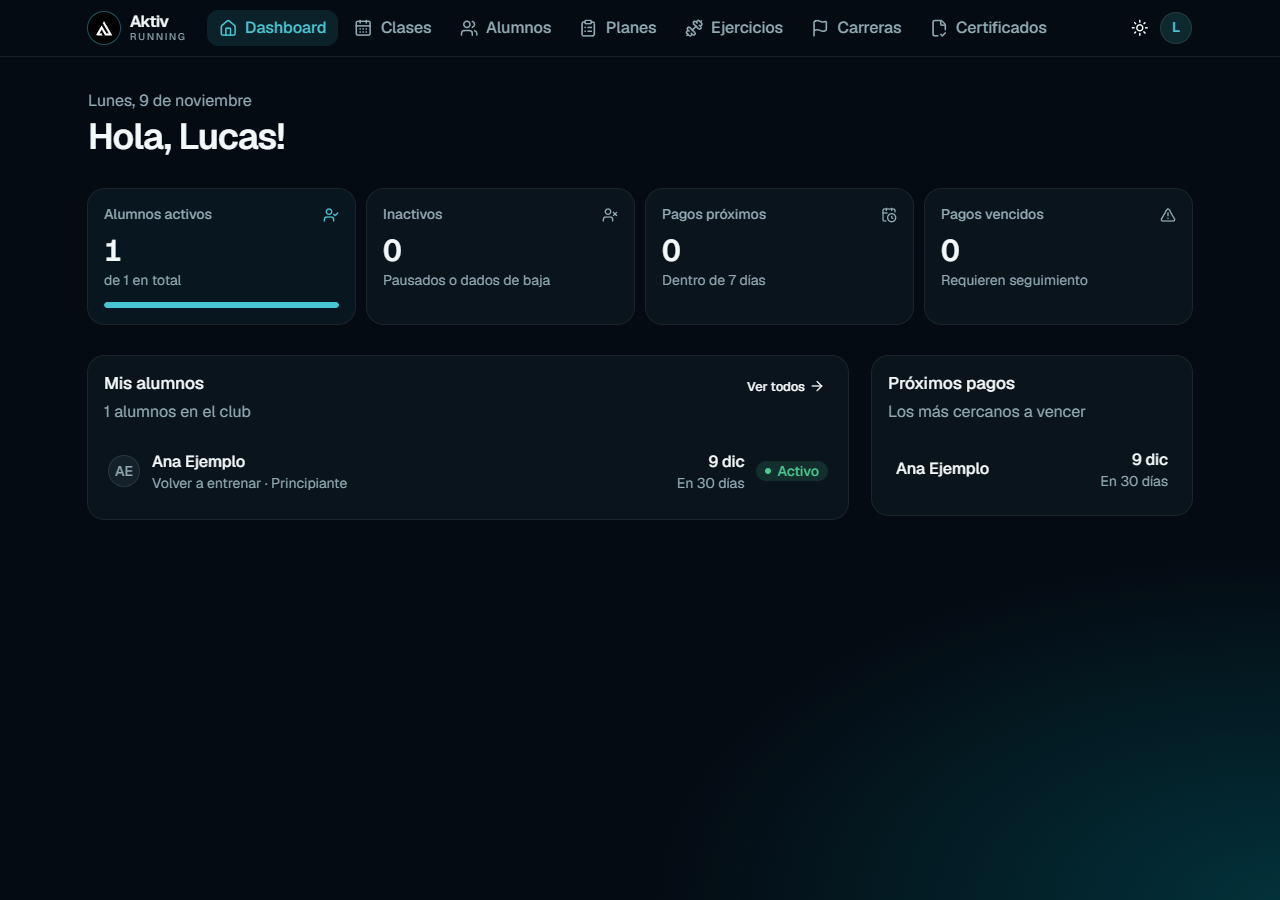
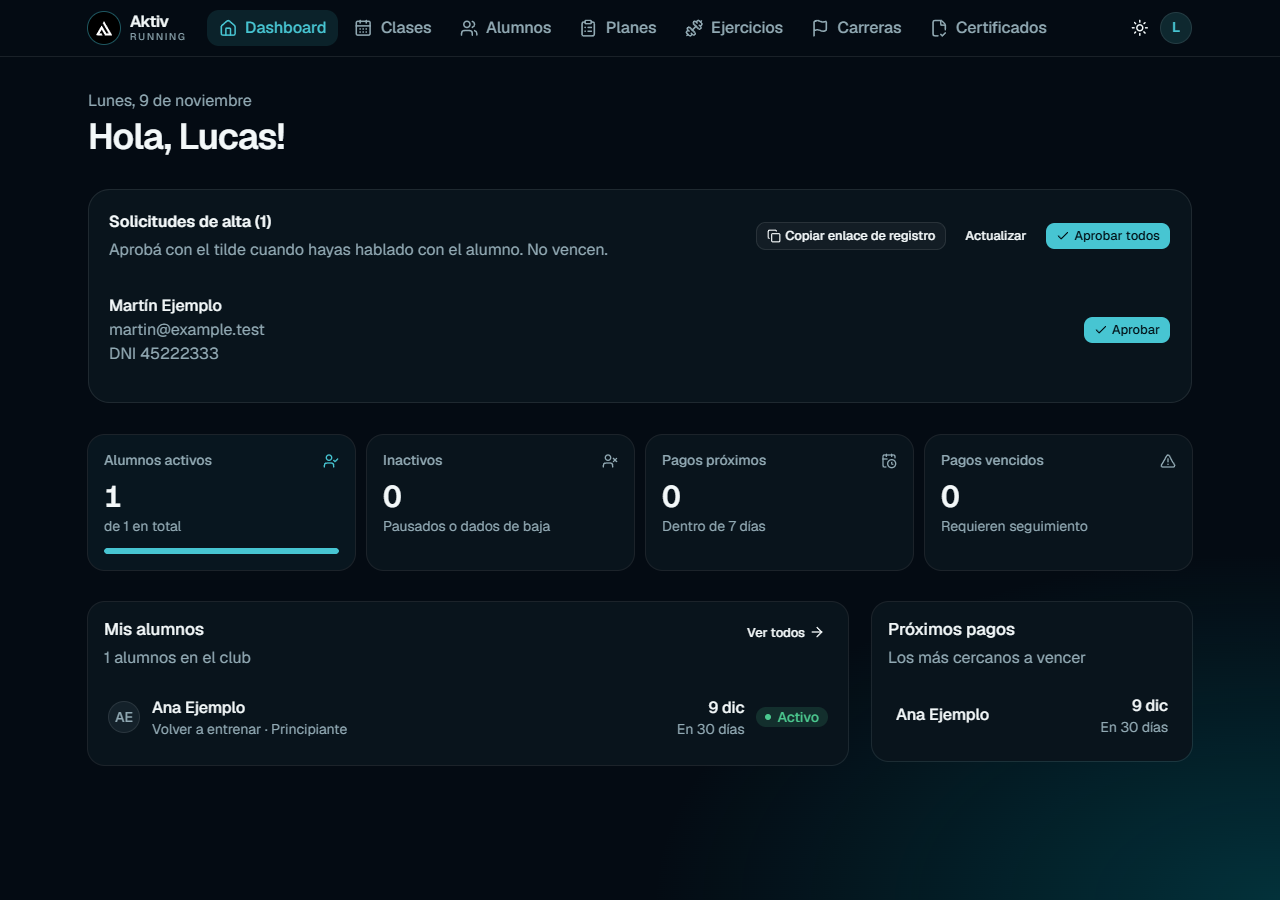
Mover solicitudes de alta al dashboard y actualizar manual

diff --git a/aktiv-client/src/lib/manual-detallado.ts b/aktiv-client/src/lib/manual-detallado.ts
@@ -20,17 +20,17 @@ export const guias: GuiaManual[] = [
   g("primeros-pasos", "Primeros pasos", "Conocer las pantallas y empezar", "Dónde encontrar cada tarea y en qué orden preparar una cuenta y sus entrenamientos.", "/dashboard", [
     p("Entrá con tu cuenta de profesor", "Abrí Aktiv, escribí tu email y contraseña y pulsá Entrar. Si la olvidaste, elegí ¿Olvidaste tu contraseña? No crees otra cuenta para recuperar la existente.", "login"),
     p("Ubicá la navegación principal", "Dashboard reúne el resumen. Clases organiza los horarios y avisos de asistencia. Alumnos abre las fichas. Planes contiene modelos reutilizables. Ejercicios es tu catálogo. Carreras organiza eventos. Certificados permite revisar la documentación médica. En el celular, abrí el menú para encontrar estos mismos apartados.", "dashboard"),
-    p("Incorporá a la persona", "Desde Alumnos podés compartir el enlace de registro y aprobar su solicitud. Si preferís cargarla vos, elegí Nuevo alumno y prepará su acceso con DNI después.", "alumnos-lista"),
+    p("Incorporá a la persona", "Desde Dashboard, debajo del saludo, podés compartir el enlace de registro y aprobar su solicitud. Si preferís cargarla vos, entrá en Alumnos y elegí Nuevo alumno y prepará su acceso con DNI después.", "alumnos-lista"),
     p("Prepará la rutina", "Creá un plan desde su ficha o armá un modelo en Planes y asignale una copia. Revisá fechas, actividades, días, ejercicios y semanas antes de activarlo.", "alumno-planes"),
     p("Volvé al manual desde tu perfil", "Pulsá el círculo de tus iniciales y elegí Manual de uso. Buscá la acción que necesitás. Las capturas usan datos ficticios y las marcas celestes señalan dónde hacer clic; pulsá una imagen para ampliarla.", "perfil-menu"),
   ], "Este manual es exclusivo del profesor. El alumno ve sus propios datos, no las pantallas de gestión de otras personas."),
 
-  g("registro-alumnos", "Alumnos", "Registrar alumnos y aprobar su acceso", "El recorrido del alumno y el tilde de aprobación desde tu cuenta.", "/alumnos", [
-    p("Compartí el enlace", "Entrá en Alumnos y pulsá Copiar enlace de registro en Solicitudes de alta. Pegalo en el mensaje que le enviarás a la persona. También puede abrir Aktiv y pulsar ¿Sos nuevo? Registrate en Aktiv, debajo de Entrar.", "alumnos-lista"),
+  g("registro-alumnos", "Alumnos", "Registrar alumnos y aprobar su acceso", "El recorrido del alumno y el tilde de aprobación desde tu cuenta.", "/dashboard", [
+    p("Compartí el enlace", "Entrá en Dashboard y, debajo de Hola, tu nombre, pulsá Copiar enlace de registro en Solicitudes de alta. Pegalo en el mensaje que le enviarás a la persona. También puede abrir Aktiv y pulsar ¿Sos nuevo? Registrate en Aktiv, debajo de Entrar.", "dashboard-solicitudes"),
     p("El alumno completa sus tres datos", "Pedile que revise la escritura antes de continuar. No se le pide una ficha de entrenamiento.", "registro", [["Nombre completo", "Nombre y apellido para reconocerlo en tu lista."], ["Email", "Será el usuario para entrar y la dirección para recuperar una contraseña. Debe estar bien escrito."], ["DNI", "Sin puntos ni espacios, con 7 u 8 números. Será su contraseña inicial."]]),
     p("Pulsa Solicitar mi alta", "La cuenta se crea y queda pendiente. No tiene que verificar el email, abrir un correo, completar teléfono, objetivos ni ficha médica. Si ya tiene cuenta, debe volver a Entrar o recuperar su contraseña.", "registro"),
-    p("Consultá las solicitudes", "En tu cuenta, volvé a Alumnos → Solicitudes de alta. Pulsá Actualizar si acaba de registrarse. Compará nombre, email y DNI con la persona que te pidió acceso.", "alumnos-lista"),
-    p("Aprobá una o todas", "Usá el tilde Aprobar de su fila. Aprobar todos procesa las solicitudes visibles de la lista. Esperá que termine: las aprobadas salen de pendientes; si alguna falla, queda para revisar y reintentar individualmente.", "alumnos-lista"),
+    p("Consultá las solicitudes", "En tu cuenta, volvé a Dashboard → Solicitudes de alta, debajo del saludo. Pulsá Actualizar si acaba de registrarse. Compará nombre, email y DNI con la persona que te pidió acceso.", "dashboard-solicitudes"),
+    p("Aprobá una o todas", "Usá el tilde Aprobar de su fila. Aprobar todos procesa las solicitudes visibles de la lista. Esperá que termine: las aprobadas salen de pendientes; si alguna falla, queda para revisar y reintentar individualmente.", "dashboard-solicitudes"),
     p("Avisale que ya puede entrar", "Mandale: «Ya podés entrar con tu email y tu DNI sin puntos como contraseña inicial». La aprobación no manda un correo automático. Antes de que la apruebes, el login informa que su solicitud está pendiente.", "login"),
     p("Prepará los planes después", "Abrí su ficha y completá los entrenamientos cuando corresponda. La ficha médica no es requisito para iniciar sesión. El alumno podrá cambiar su contraseña desde Mi perfil → Cambiar contraseña.", "alumno-resumen"),
   ], "Las solicitudes no vencen y no tienen botón de rechazo. No se pide ningún identificador del profesor. Mensaje para compartir: «Entrá al enlace de registro de Aktiv, completá nombre, email y DNI sin puntos y pulsá Solicitar mi alta. No confirmes ningún correo. Avisame al terminar para aprobar tu acceso»."),
@@ -66,7 +66,7 @@ export const guias: GuiaManual[] = [
     p("Abrí el correo y elegí una nueva clave", "El alumno abre el mensaje, sigue el enlace y completa una contraseña nueva. Si no lo encuentra, revisa spam. Si el enlace dejó de funcionar, solicita otro y usa el más reciente.", "recuperar"),
     p("Para ayudar desde tu cuenta, abrí Restablecer acceso", "Entrá en Alumnos → ficha de la persona → Restablecer acceso. Primero acordalo con ella, porque reemplaza la clave que estaba usando.", "alumno-acceso"),
     p("Revisá los datos y confirmá", "Comprobá email y DNI. Marcá la casilla que confirma el reemplazo de contraseña si aparece y confirmá el restablecimiento. Compartí las instrucciones de acceso; no pidas la clave personal por chat.", "alumno-acceso"),
-    p("Probá entrar nuevamente", "La persona vuelve a Entrar con su email y la clave nueva, o el DNI si restableciste a ese valor. Si el alta sigue pendiente, todavía hay que aprobarla desde Alumnos.", "login"),
+    p("Probá entrar nuevamente", "La persona vuelve a Entrar con su email y la clave nueva, o el DNI si restableciste a ese valor. Si el alta sigue pendiente, todavía hay que aprobarla desde Dashboard → Solicitudes de alta.", "login"),
   ], "El registro no exige confirmar correo, pero la recuperación por email sí envía un mensaje con un enlace. Son procesos distintos."),
 
   g("cuenta", "Cuenta y acceso", "Cambiar la contraseña y cerrar sesión", "Usar las acciones del menú de perfil.", "/dashboard", [

diff --git a/aktiv-client/src/app/(app)/alumnos/page.tsx b/aktiv-client/src/app/(app)/alumnos/page.tsx
@@ -1,7 +1,6 @@
 "use client";
 
 import { AlumnosTable } from "@/components/alumnos-table";
-import { SolicitudesAlta } from "@/components/solicitudes-alta";
 import { NuevoAlumnoDialog } from "@/components/nuevo-alumno-dialog";
 import { ImportarAlumnosDialog } from "@/components/importar-alumnos-dialog";
 import { useRol } from "@/lib/guards";
@@ -26,7 +25,6 @@ export default function AlumnosPage() {
         </div>
         <div className="flex flex-wrap gap-2"><ImportarAlumnosDialog /><NuevoAlumnoDialog /></div>
       </header>
-      <SolicitudesAlta />
       <AlumnosTable alumnos={alumnos} />
     </div>
   );

diff --git a/aktiv-client/src/app/(app)/dashboard/page.tsx b/aktiv-client/src/app/(app)/dashboard/page.tsx
@@ -1,6 +1,7 @@
 "use client";
 
 import Link from "next/link";
+import { SolicitudesAlta } from "@/components/solicitudes-alta";
 import { useMemo } from "react";
 import {
   ArrowRight,
@@ -73,6 +74,8 @@ export default function DashboardPage() {
           Hola, {session.nombre.split(" ")[0]}!
         </h1>
       </header>
+
+      <SolicitudesAlta />
 
       <section
         aria-label="Métricas"

diff --git a/Codex.MD b/Codex.MD
@@ -1,3 +1,5 @@
+Solicitudes de alta (10/11/2026): se trasladan de Alumnos al Dashboard, inmediatamente debajo del saludo y antes de métricas. Se conservan aprobación individual/todas, actualización y enlace. Manual y prueba de registro actualizados. Usuario confirma aplicada migración51 en producción. Misma PR12, rama feat/running-semanal.
+
 # Aktiv — contexto único del proyecto
 
 Running semanal (10/11/2026): rama feat/running-semanal desde main833750b. Grilla propia solo para Running (lunes-domingo en filas, semanas en columnas de a4; una semana en móvil), texto libre hasta4000 por celda, volumen manual decimal, sugerencias por semana, vacío sin herencia no significa Descanso. Copiar semana reemplaza destino completo y conserva origen. Guardado por celda con debounce, error/reintento, protección de navegación y edición durante guardado. Estado confirmado conservado al alternar Fuerza/Running. EVENTO_RUNNING confirma snapshots locales a usePlanesMensuales/useModelos, preserva respuestas recientes ante lecturas antiguas y actualiza Resumen de hoy sin descargar planes por celda. AlumnoResumen muestra la indicación de Running del día. Fecha argentina y día actual destacado. Calendario del alumno muestra entradas de grilla y grilla de lectura; planes futuros se rigen por fechas existentes. Conserva sesiones anteriores, accesibles desde botón de Running; no se importan ni convierten datos del Excel. Fuerza mantiene editor.
